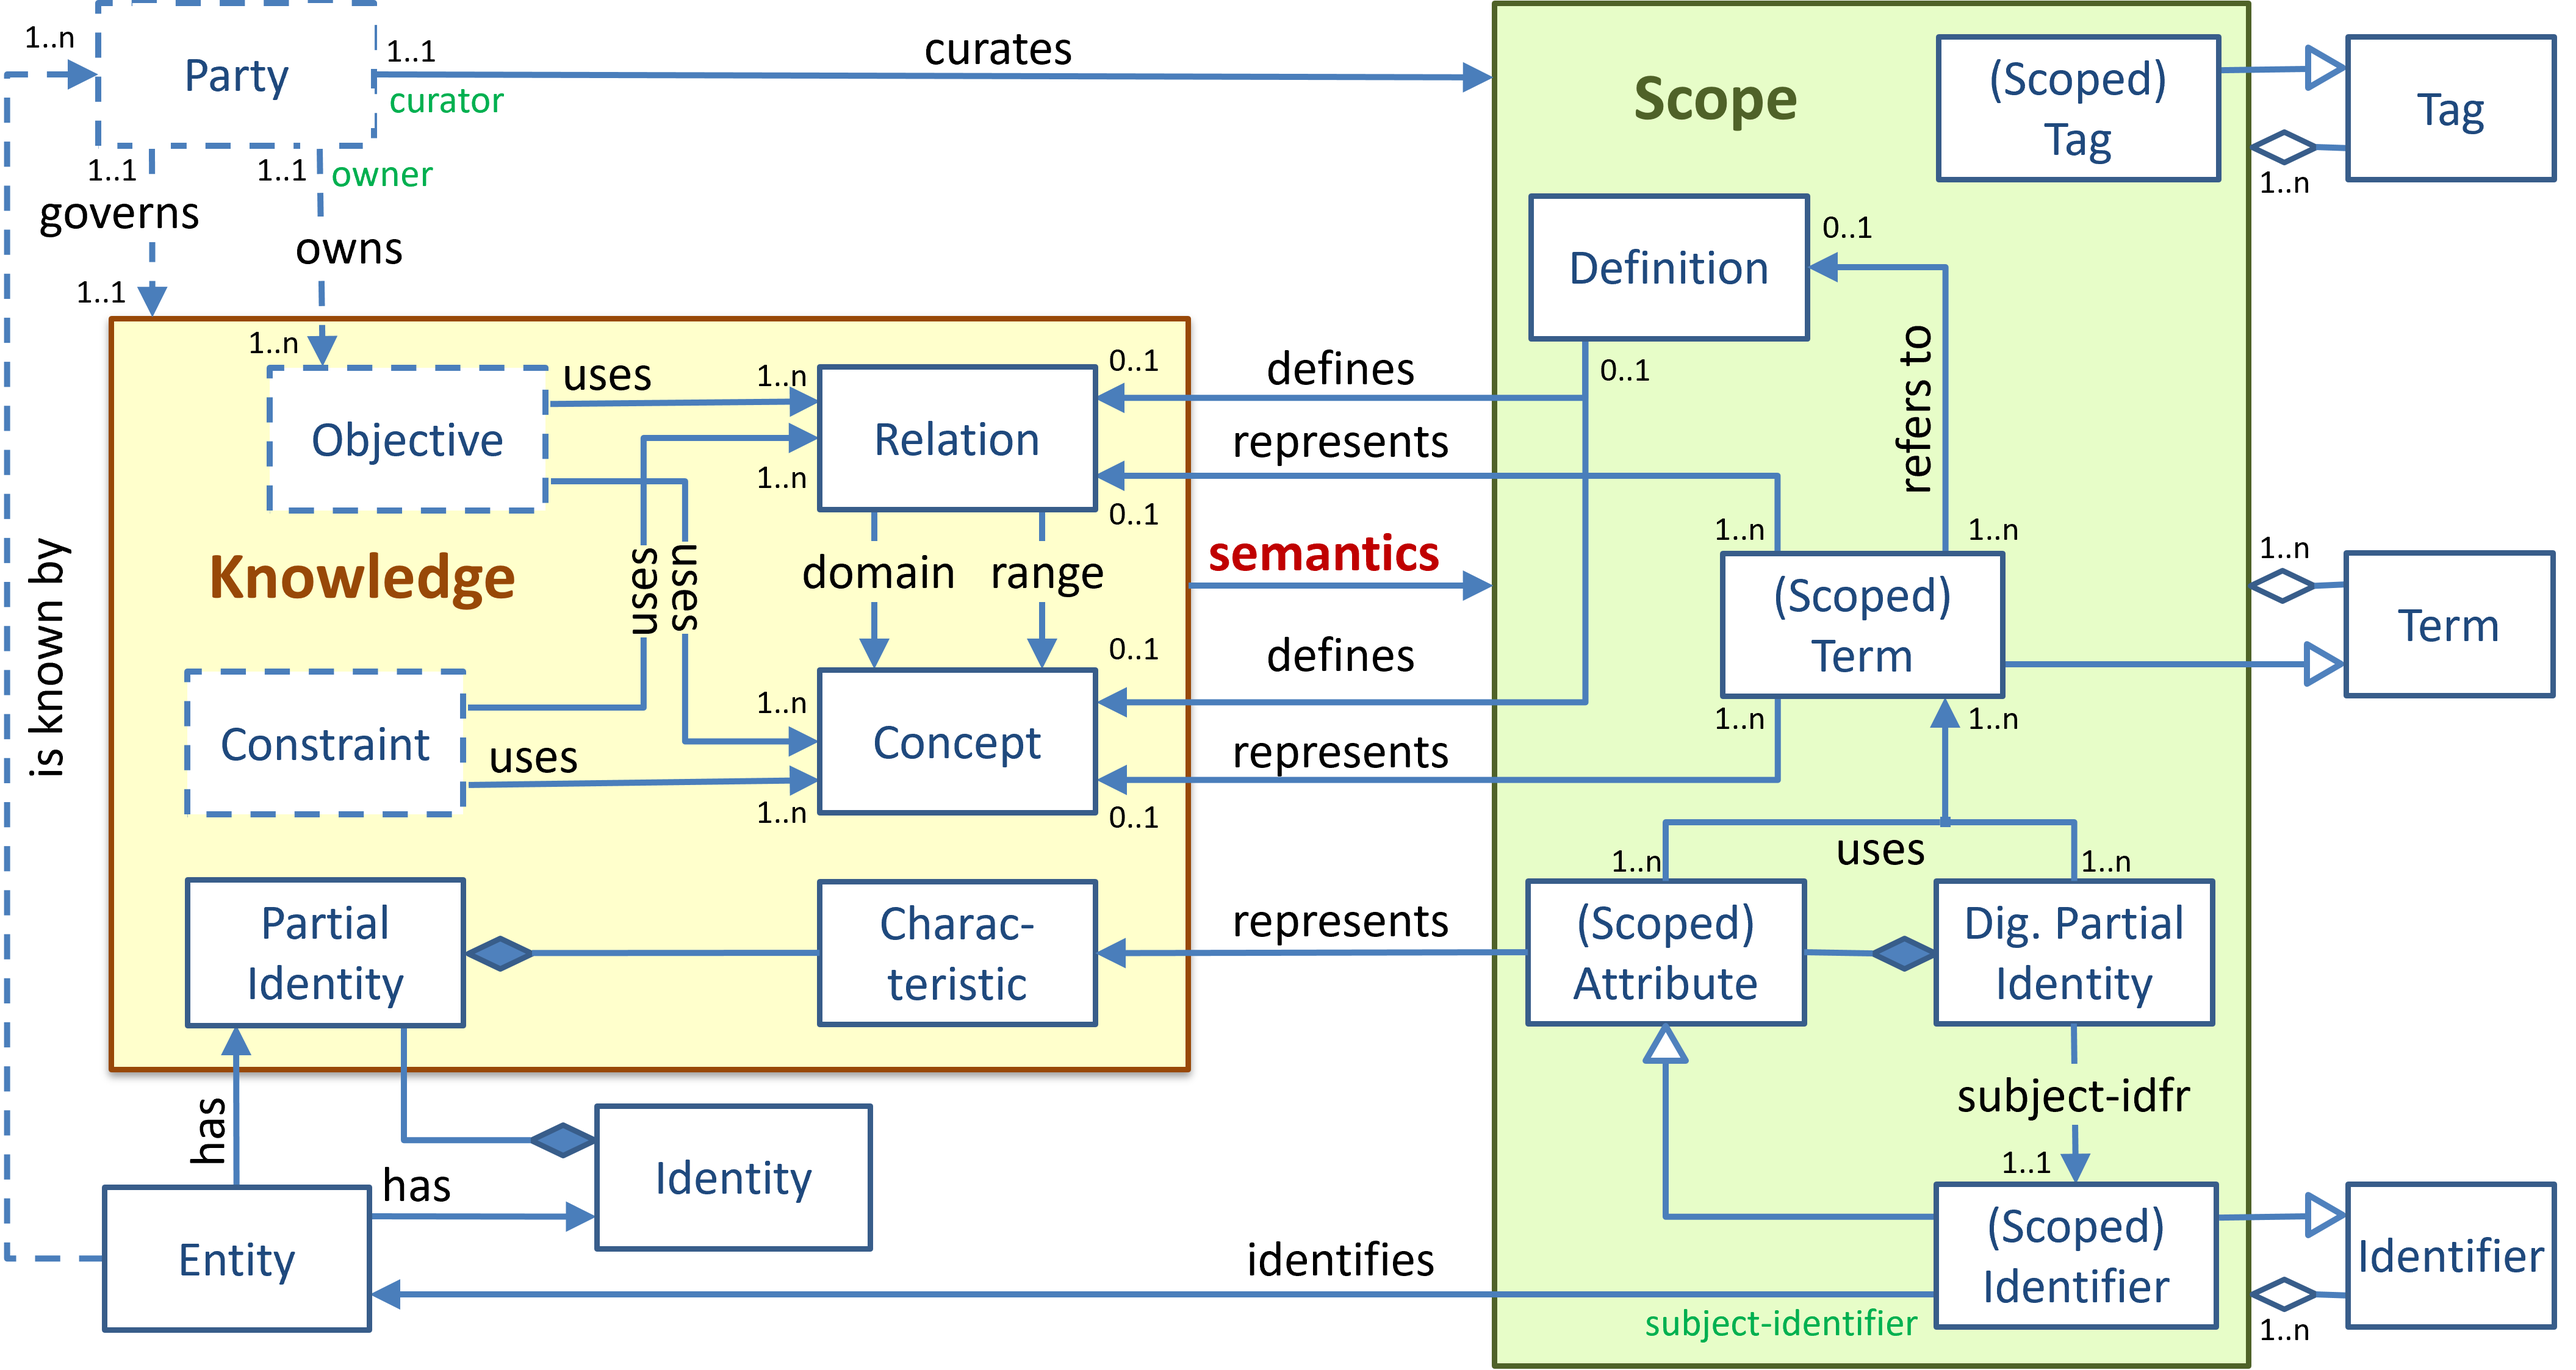
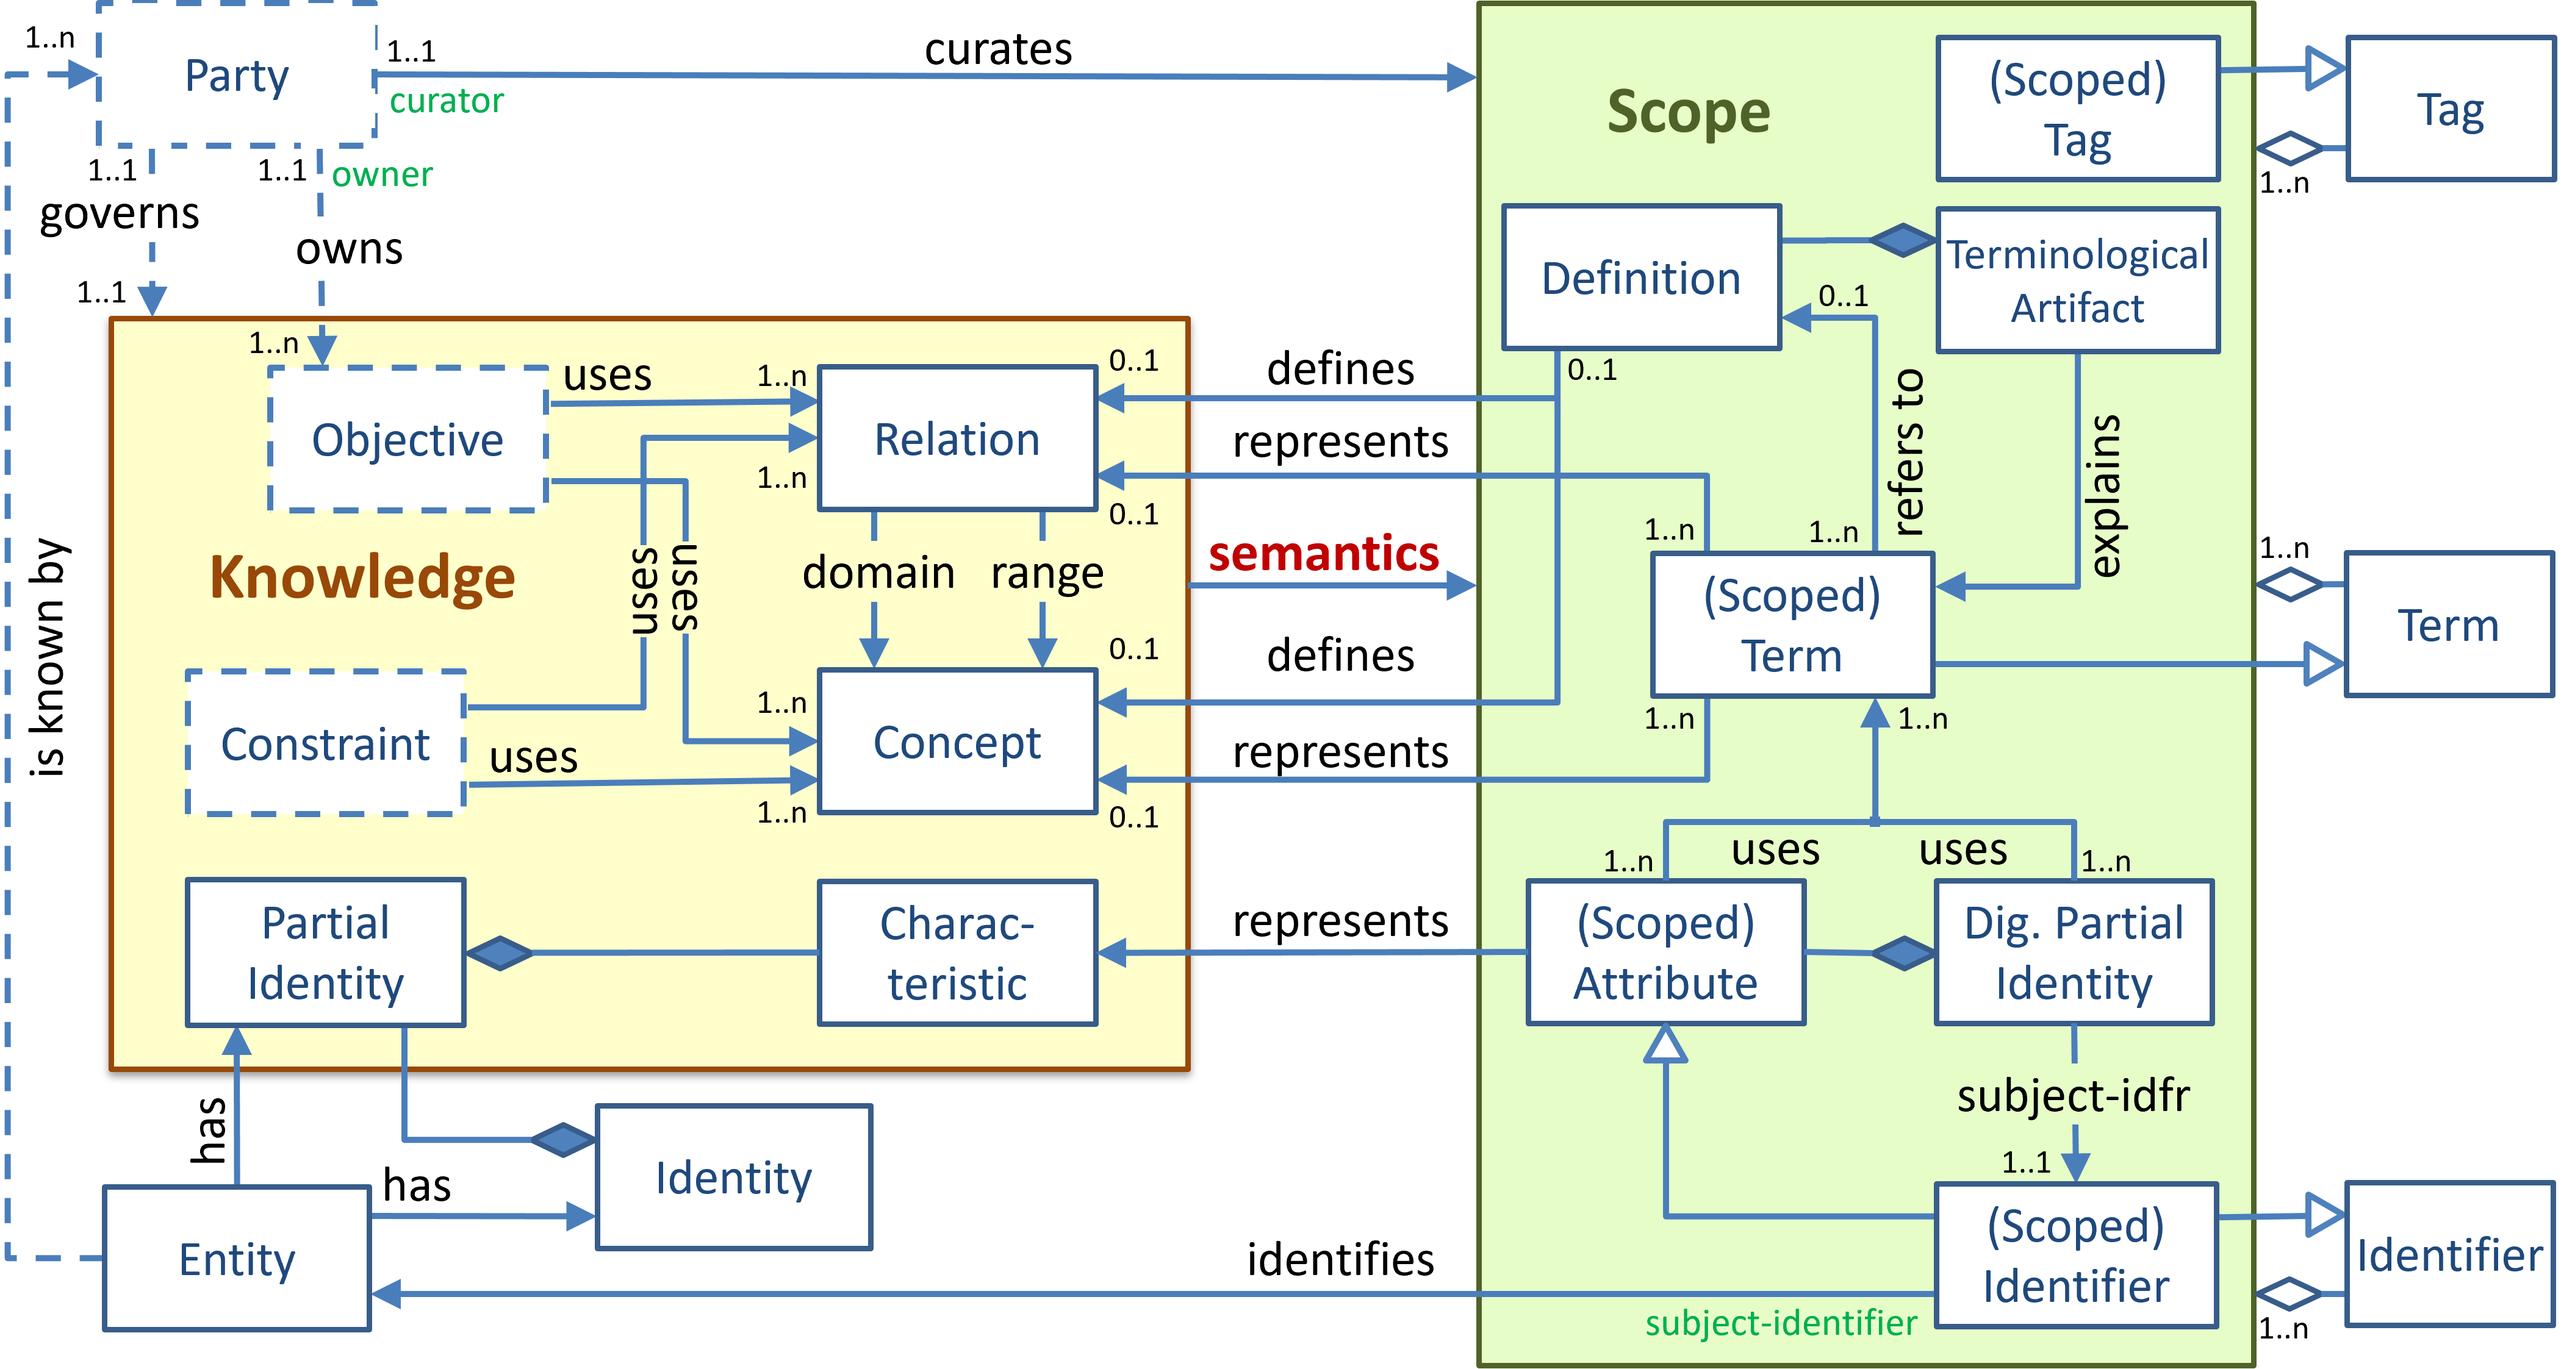
minor updates 'Semantics' pattern (#90)
* fix broken links in ToIP glossary

* links weren't broken after all;

* saving

* wip

* updates for Docusaurus vsn update

* work in progress

* changed termrefs

* more term-ref changes

* Revised TEv2 overview

* wip

* updates on SAF and MRG doc

* wip

* Updated MRGs

* WIP

* wip - term.artifact docs

* wip

* added manuals, fixed typo's

* updates on overview and toolbox

* cosmetic updates

* wip

* Revised TRRT spec

* Updates on TRRT

* Added new tool 'ICT'

* some left-over merge conflicts

* rename SAF entry terms - termselcrit

* minor updates on mrgt

* Defer GDF specifications

* starting a test terminology

* update to Docusuarus 2.0.0-beta.21

* include ICT in toolbox

* Updates on Terms

* Added 'semantics' envisaged model

* bugfixes

* Started Semantics Pattern texts

* bugfix

* minor updates semantics pattern

diff --git a/docs/terms/pattern-semantics.md b/docs/terms/pattern-semantics.md
@@ -22,9 +22,12 @@ The **Semantics Pattern**  describes the relations between the (intangible) %%Co
 :::info Editor's note
 Storyline that needs to be worked out:
 - it is impossible to really understand one another because Knowledge is intangible.
-- next best is to create tangible artifacts that can be obtained, stored, processed, disseminated, and that can be assigned 'allusions', or 'hints' towards what individual %%parties|party%% take it to mean.
-- we use %%definitions|definition%% as such 'hints'; ideally, they are phrased as criteria that different %%parties|party%% can assess in use-cases (relevant for the %%objectives|objective%% they all seek to realize), and of which they can agree on whether or not they all interpret them in the same manner (i.e.: make the same distinctions using the criteria)
+- next best is to create tangible, so called (terminological) artifacts that a party can be create/obtain, store, process, disseminate, for the purpose of enabling other parties to 'understand' (parts of) what it knows.
+- %%definitions|definition%% are the prime examples of such artifacts; ideally, they are phrased as criteria so that different %%parties|party%% can all assess these criteria in different use-cases (relevant for the %%objectives|objective%% they all seek to realize), and subsequently agree on whether or not they have all interpreted some criteria in some use-case in the same manner, and _if_ they do, conclude that they have the same understanding about the disctincion that the criteria makes (at least to the extent to where the use-cases go).
+- other artifacts may also help in understanding each other's knowledge. Such artifacts include more casual explanations, a formal or informal description of how the various concepts that are being explained (or defined) relate to one another, etc. Thus, we expect to see terminological artifacts of different kinds to be created, maintained, evaluated and continually improved on.
 - establishing a set of such %%definitions|definition%%, associated %%terms|term%% (a 'common %%terminology|terminology%%') enables the %%parties|party%% to express characteristics of %%entities|entity%% as (scoped!) %%attributes|attribute%%, and hence a %%partial identity|partial-identity%% of an %%entity|entity%% in a (digital) representation.
+
+The %pattern% also hints at the relation between %semantics% and
 :::
 
 ### Formalized model

diff --git a/docs/terms/term.md b/docs/terms/term.md
@@ -23,7 +23,7 @@ The precise meaning of a term thus depends on the %%scope|scope%%/context in whi
 The %%terminology pattern|pattern-terminology%% provides an overview of how this concept fits in with related concepts.
 
 ### Purpose
-Understanding words or phrases uttered by others requires that we are able to 'translate' them terms into terms that we habitually use. While this is mostly an automatism, and it often is not necessary to be all that precise, this may be different when they relate to stuff we find important. The ability to represent a specific %%concept|concept%% with a specific text or phrase, where this 'representation' is limited to a specific (or several) context(s), helps us to better interpret these words, which is: to properly understand what others actually try to convey in spoken or written language.
+Understanding words or phrases uttered by others requires that we are able to 'translate' them terms into terms that we habitually use. While this is mostly an automatism, and it often is not necessary to be all that precise, this may be different when they relate to stuff we find important. The ability to represent a specific %%concept|concept%% with a specific text or phrase, where this 'representation' is limited to a specific (or several) context(s), helps us to better interpret these words, which is: to properly understand what others actually try to convey in spoken or written language. After all, as Confucius said: "The whole end of speech is to be understood."
 
 ### Criteria
 A term MUST be a word or phrase (i.e.: text) that is part of at least one %%scope|scope%%/context, and for all %%scopes|scope%%/contexts of which it is a part, a %%scoped term|scoped-term%% must exist that

diff --git a/docs/tev2/terms/terms-community.md b/docs/tev2/terms/terms-community.md
@@ -42,7 +42,7 @@ A terms-community would typically create and (automatically) publish a [glossary
 Further details can be found in the [terminology pattern](@).
 
 ### Purpose
-The purpose of establishing and maintaining a [terminology](@), and hence for having a [terms-community](@), is to ensure that any communications between its members is understood in the same meaning as it was said/written, which is prerequisite for reasoning, arguing, and making collective decisions.
+The purpose of establishing and maintaining a [terminology](@), and hence for having a [terms-community](@), is to ensure that any communications between its members is understood in the same meaning as it was said/written, which is prerequisite for reasoning, arguing, and making collective decisions. After all, as Confucius said: "The whole end o f speech is to be understood."
 
 ### Criterion
 a [community](@) that maintains a [terminology](@) for the purpose of its members to avoid misunderstandings in their collaborations.

diff --git a/docs/terms/definition.md b/docs/terms/definition.md
@@ -63,3 +63,5 @@ You may want to create definitions that are both acceptable for business people 
 Note that the actual word or phrase you choose as the %%term|term%% name for a concept is much less important than the criteria you define. If in a particular %%context|scope%% another name would be more suitable, you can define another %%term|term%% for that other context (scope) that still refers to the concept you created the definition for.
 
 The %%Terminology Corpus|corpus%% provides templates that help you do that, e.g. for %%defining concepts|concept-file%% and for %%defining terms|term-file%%. The report [On Terminology, and the Resolution of Related Issues](http://resolver.tudelft.nl/uuid:964a90da-da81-4d38-9f45-84f3f5fa96b3) provides further practical guidance for establishing and maintaining unambiguous and relevant terminology.
+
+As a final note we would like to mention a quote of Confucius: "The whole end of speech is to be understood."
